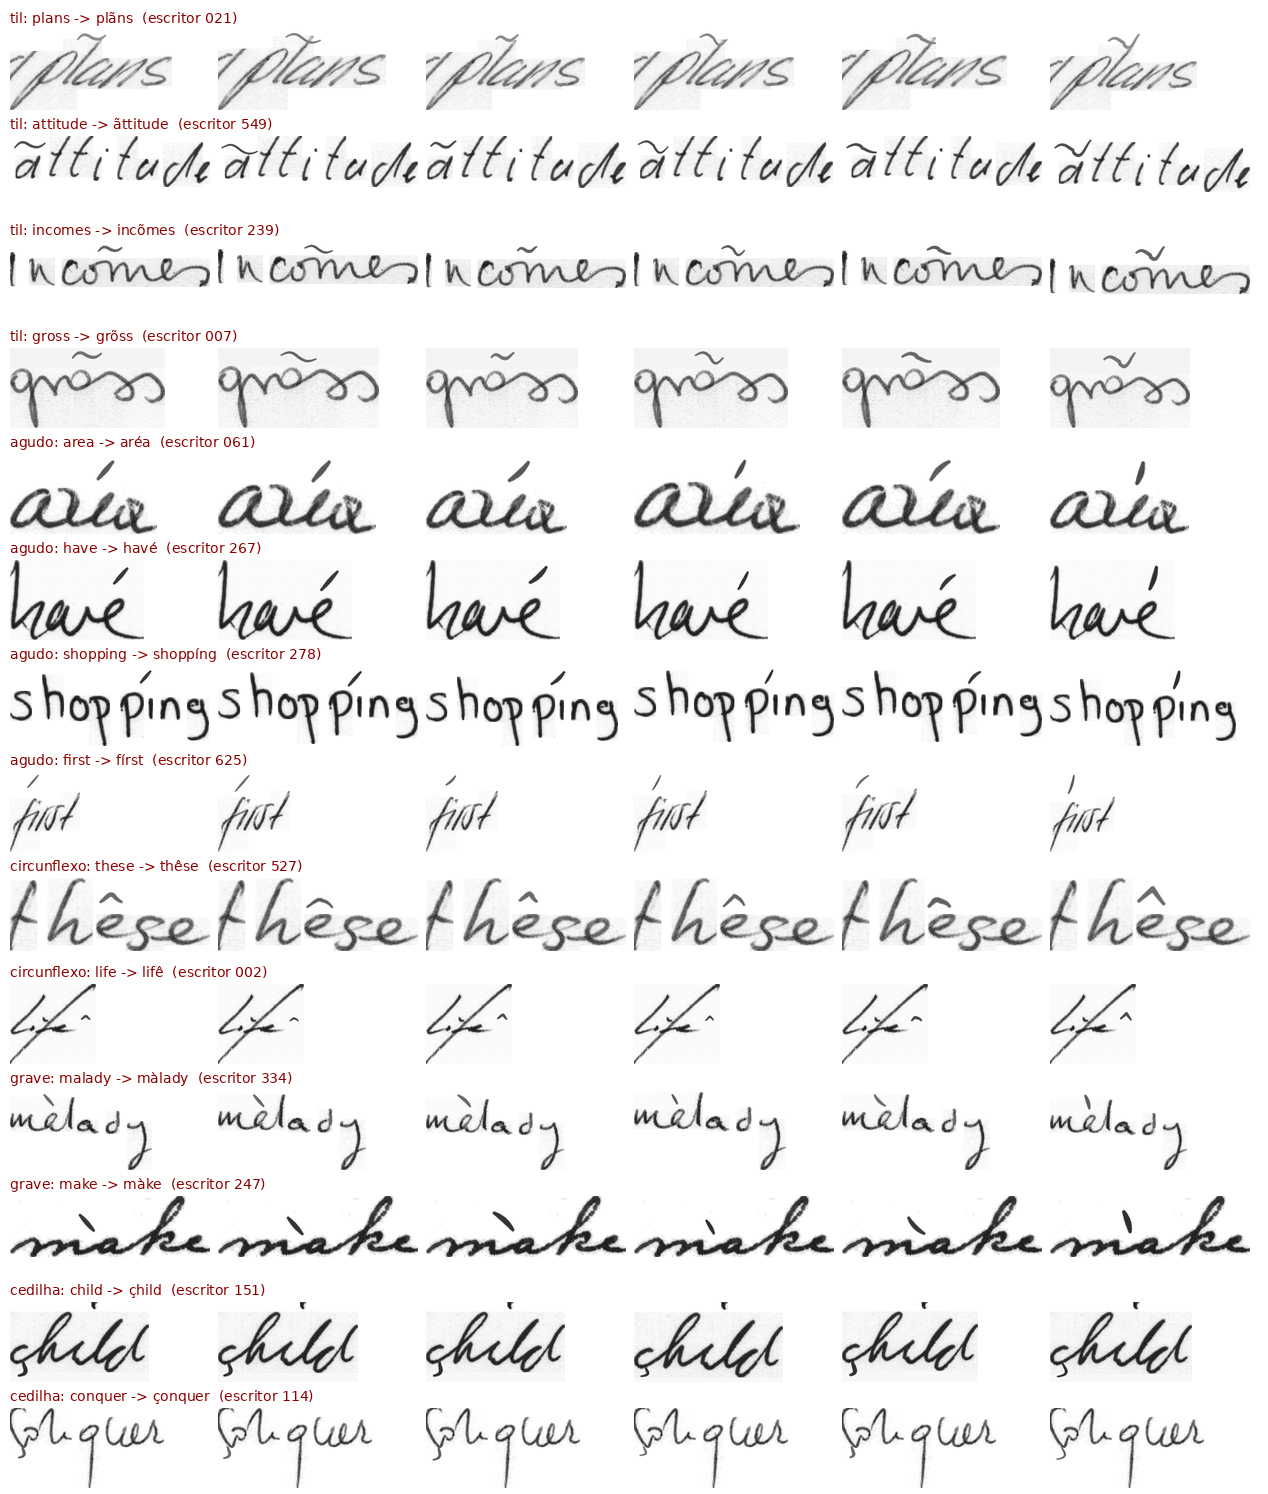
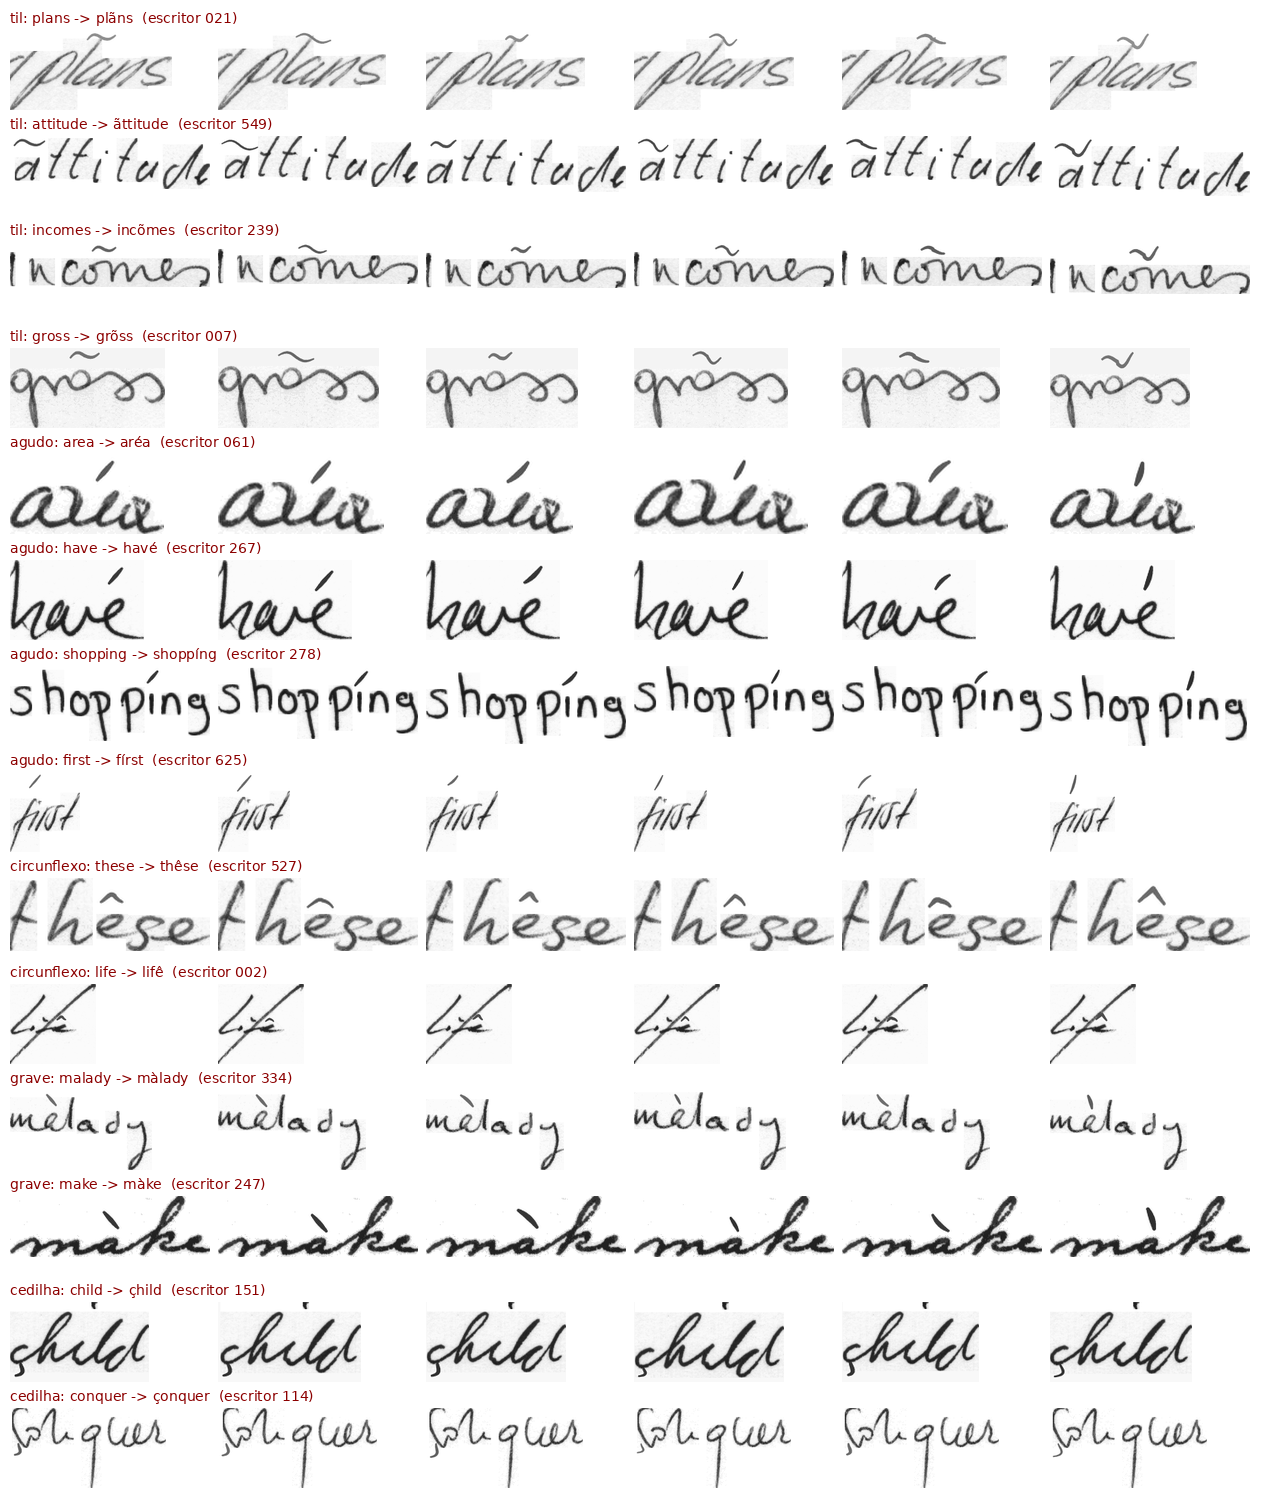
Alinhador CTC: avaliacao, LOG e folhas com fatias CTC + vales

diff --git a/scripts/amostras_acentos.py b/scripts/amostras_acentos.py
@@ -170,7 +170,7 @@ def main():
     folha_amostras(itens, os.path.join(a.saida, "amostras.png"), f_rot)
     if pares:
         folha_comparacao(pares, os.path.join(a.saida, "comparacao_fatias.png"), f_rot)
-        n_ctc = sum(am.params["segmentacao"] == "ctc" for _, am in pares)
+        n_ctc = sum(am.params["segmentacao"] != "igual" for _, am in pares)
         print(f"segmentacao CTC em {n_ctc}/{len(pares)} amostras (resto: fatias iguais)")
     tipos = {}
     for _, am in itens:

diff --git a/LOG.md b/LOG.md
@@ -759,3 +759,38 @@ SPLIT=./bressay_split_25 SAVE_PATH=./model_bressay_25 BLOCO=5 ALVO=40 NUM_WORKER
 - Comparação com as mesmas palavras, seed 42, 4 estilos, contra o IAM original
   e o `v1` de 26 épocas, com referência de estilo do IAM e do BRESSAY:
   `saidas/diffusionpen/fine_tune_25_v2/`. Análise no `ACHADOS.md`, seção 8.
+
+---
+
+## 2026-10-02 — Acentos sintéticos no IAM: alinhamento CTC das letras
+
+- Pacote `acentos_sinteticos/` (gerador de acentos e cedilhas sobre palavras
+  do IAM) e folhas em `saidas/acentos_sinteticos/`
+  (`scripts/amostras_acentos.py --n 30 --seed 0`). Com fatias iguais por
+  letra, ~24/30 amostras boas; as falhas vinham de letras de larguras muito
+  diferentes.
+- Reconhecedor CTC só convolucional para localizar as letras:
+  `python scripts/treinar_alinhador.py --epocas 15 --saida modelos/alinhador_iam.pt`
+  (`iam_training.txt` 47.981 palavras, validação `iam_val.txt` 7.554, alfabeto
+  78). RX 9060 XT: ~103 s/época; a primeira execução levou 811 s por causa da
+  compilação de kernels do MIOpen. Melhor CER de validação **0,127** na época
+  14 (62% de palavras lidas certas). Os pesos ficam só em
+  `~/HTG-Research-Pt-Br/modelos/alinhador_iam.pt` (gitignored) e são
+  reconstruídos pelo comando acima.
+- `scripts/avaliar_posicao_letras.py`: verdade automática em 2.017 palavras de
+  val+test em que cada componente conexo é uma letra (2.969 letras-alvo).
+  Acerto da letra certa (todas / letras do meio) e viés mediano em larguras de
+  letra:
+  - fatias iguais: 92,6% / 89,1%, viés −0,06;
+  - iguais + vale: 94,9% / 92,5%;
+  - CTC (meio entre disparos): 97,8% / 97,1%, viés +0,03;
+  - **CTC + vale: 98,0% / 97,3%, viés −0,04**. É o que o gerador usa.
+  - Disparo CTC direto: 98,6%, mas com viés de +0,23 para a direita.
+
+  A confiança do alinhamento (`logp_medio`) separa os erros: no quartil
+  inferior o acerto é 94,1%; nos outros quartis, 98,5% ou mais. Letras soltas
+  são o caso fácil; na escrita cursiva o erro deve ser maior.
+- Nas 30 amostras, CTC + vale e fatias iguais quase sempre caem no mesmo
+  lugar. Ampliado, `bóttom` estava certo. `fõr` (logp −0,29, lido "fo") é um
+  recorte ambíguo, e `stumblêd` (lido "stumblerd") continua com o circunflexo
+  sobre o "d". Os dois de logp mais baixo são `fõr` e `bóttom`.
